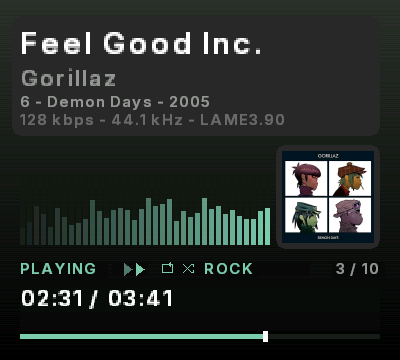
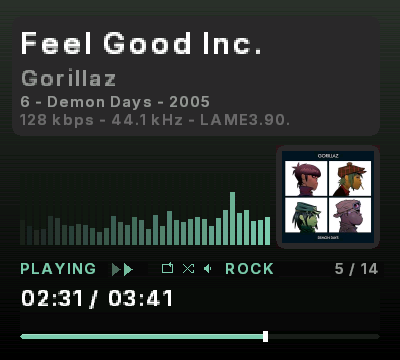
Add the playlist browser screenshot; recompress both, losslessly
Both captures were storing RAW pixel data -- 1,061,865 bytes each for a 400x360
image, where the uncompressed bitmap is only 432,000. Recompressed with
optimize and compress_level 9: 18,563 and 16,291 bytes, a 99% reduction, and
verified PIXEL-IDENTICAL by hashing the decoded RGB before and after rather
than trusting the encoder. 2.1 MB of a source-inclusive repo recovered for
nothing given up.

screenshot2.png illustrates the playlist browser, in the subsection that now
exists for it. Its alt text describes what is actually in the frame -- the
13-of-14 header, the filename rows, the cursor on the highlighted entry -- and
the prose gains the point the picture makes better than words: the transport
row, times and progress bar stay visible underneath, so opening the browser
hides nothing about what is playing.

screenshot.png was replaced too and its alt text no longer matched: the shot is
now track 5 of 14 rather than 3 of 10, and it shows the volume indicator this
release added. Alt text that describes a previous capture is the same defect as
prose that describes previous behaviour, which is the fault this whole pass has
been correcting.

diff --git a/README.md b/README.md
@@ -88,8 +88,12 @@ remembered.
 
 ### The playlist browser
 
+<img src="docs/screenshot2.png" width="280" align="right" alt="Playlist browser: a PLAYLIST 13 of 14 header above nine filename rows, with Gorillaz - Feel Good Inc. highlighted and marked by a cursor; the transport row, times and progress bar stay visible underneath">
+
 **Tap Select** to browse the playlist on screen. It opens on the track that's
-playing, so you always start from where you are.
+playing, so you always start from where you are. The transport row, the times
+and the progress bar stay put underneath, so nothing about what's playing is
+hidden while you look.
 
 | Pocket | Action |
 |---|---|
@@ -102,7 +106,7 @@ playing, so you always start from where you are.
 Rows show filenames rather than tags — a tag lives inside its file, so naming
 every row would mean opening all 256 of them. With shuffle on, the list is the
 play queue, so scrolling down shows what's actually coming rather than the file
-order.
+order.<br clear="right">
 
 ### Limits
 
@@ -152,7 +156,7 @@ and says how many it skipped.
 
 ## What it shows
 
-<img src="docs/screenshot.png" width="280" align="right" alt="Player screen: Feel Good Inc. by Gorillaz, track 6 of Demon Days 2005, encoded 128 kbps 44.1 kHz by LAME3.90, above a bar meter with the album cover at the right; below, a PLAYING label with repeat and shuffle indicators and the EQ preset ROCK, track 3 of 10, 02:31 of 03:41, and a progress bar">
+<img src="docs/screenshot.png" width="280" align="right" alt="Player screen: Feel Good Inc. by Gorillaz, track 6 of Demon Days 2005, encoded 128 kbps 44.1 kHz by LAME3.90, above a bar meter with the album cover at the right; below, a PLAYING label with repeat, shuffle and volume indicators and the EQ preset ROCK, track 5 of 14, 02:31 of 03:41, and a progress bar">
 
 - **Title and artist** from the file's tag. One with no readable tag shows its
   filename, which is usually the song name anyway.
